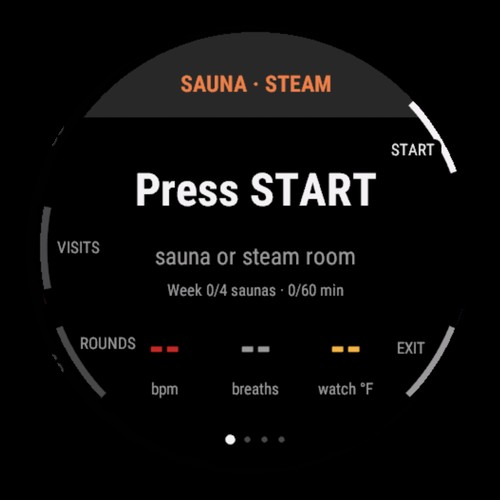
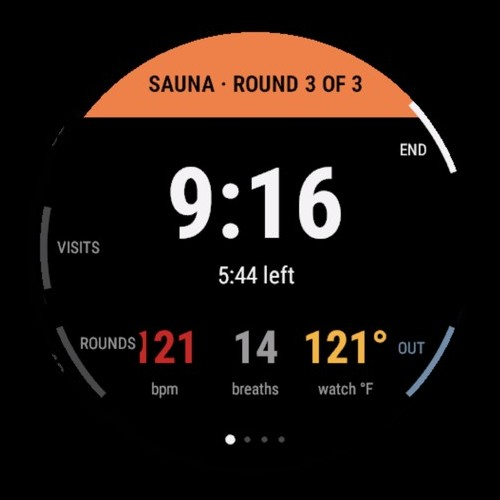
Store: more screenshots, the Sauna demo's screens and the faces' colour sets

diff --git a/docs/STORE.md b/docs/STORE.md
@@ -35,6 +35,18 @@ and screen image (454 × 454, the simulator's display cut round) are in
 | Rings | <https://apps.garmin.com/apps/607da8f9-d15c-4116-982d-faa381de3d5f> | Submitted 2026-10-31, in review |
 | Sauna and Steam | <https://apps.garmin.com/apps/a5da0e99-f413-4173-8cb2-54e90a7ab815> | Submitted 2026-10-31, in review |
 
+Screenshots: the store takes at most five. Sauna and Steam has the demo
+mode's screens (a round in the heat, the break, the rounds table, the
+recovery chart, the visits), Rings its three colour sets, Strata Soil, Moss
+and Clay. They were taken from throwaway copies of each app built in the
+scratchpad (never committed): Sauna started straight into its demo at a
+given screen, with no glance so the simulator opens the app, and the
+faces with a setting's default changed and the watch-face editor's style
+ignored (the simulator always reports the first style). Each copy needs
+its own .prg name, since the simulator keeps settings by file name. The
+store pages kept showing the first screenshot for a while after the edit
+was saved.
+
 Every upload so far showed "Status: Verified" with "Signature check
 failed." beside it; Garmin's forum reports the same message on first
 uploads with SDK 9.x, and the upload went through.
